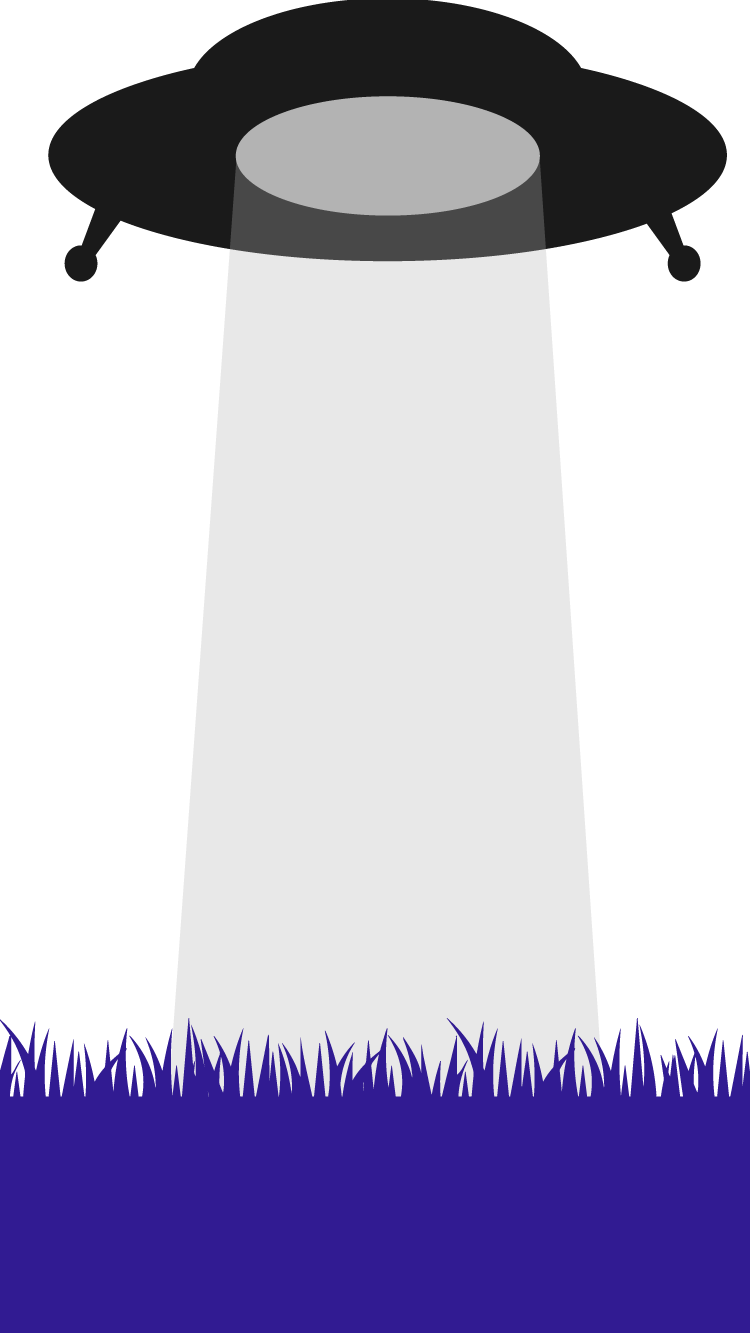
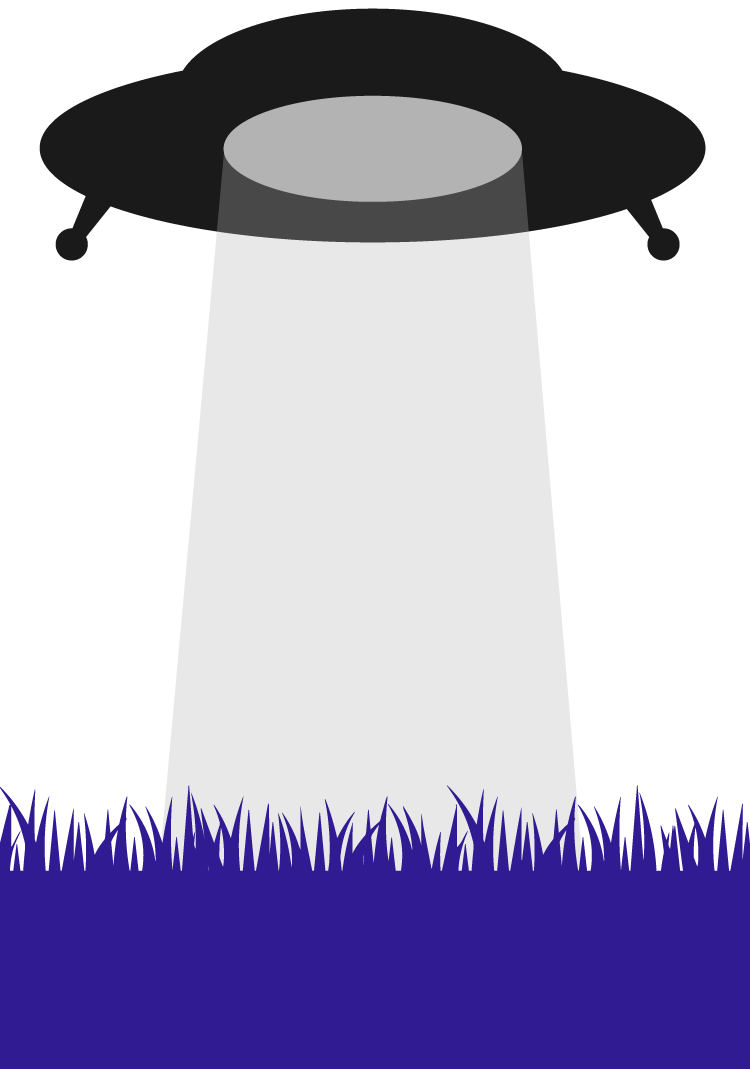
test background

Changed region(s): [[0.0307, 0.0309, 0.9507, 0.247], [0.0, 0.7409, 1.0, 0.8335], [0.3067, 0.0, 0.9813, 0.1543]]

diff --git a/styles.css b/styles.css
@@ -70,7 +70,7 @@ html, body {
     display: none; }
 
   .container {
-    background-image: url(mobile-bg-01.png);
-    background-repeat: no-repeat; } }
+    background: url(mobile-bg-01.png) #006064 no-repeat center;
+    background-size: cover; } }
 
 /*# sourceMappingURL=styles.css.map */
